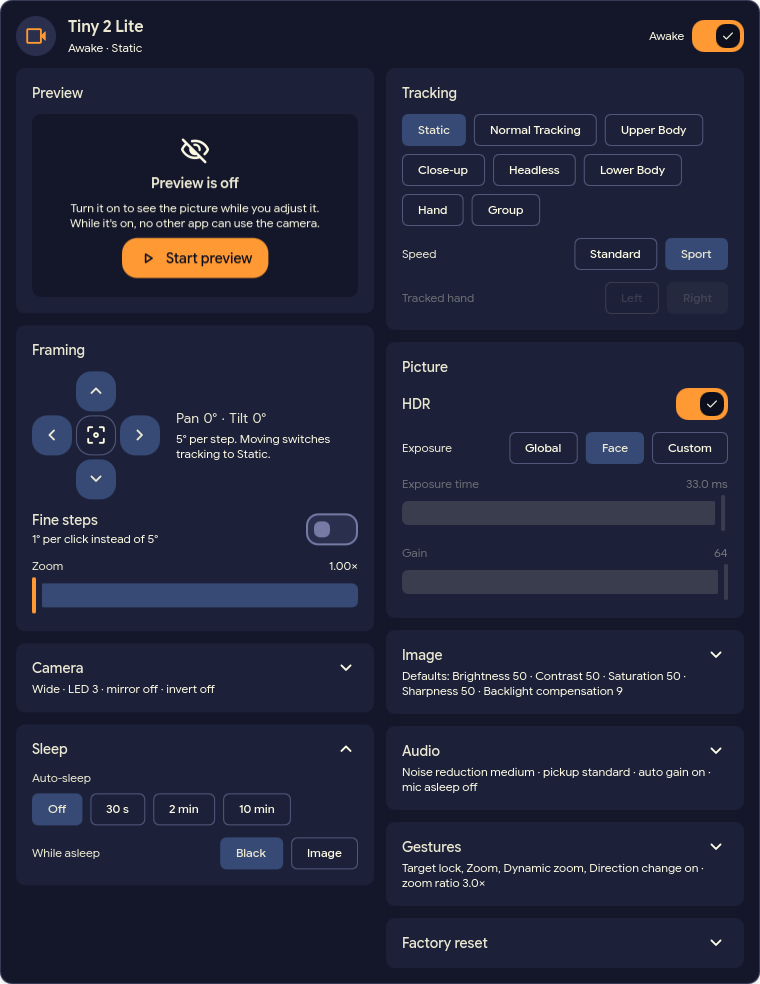
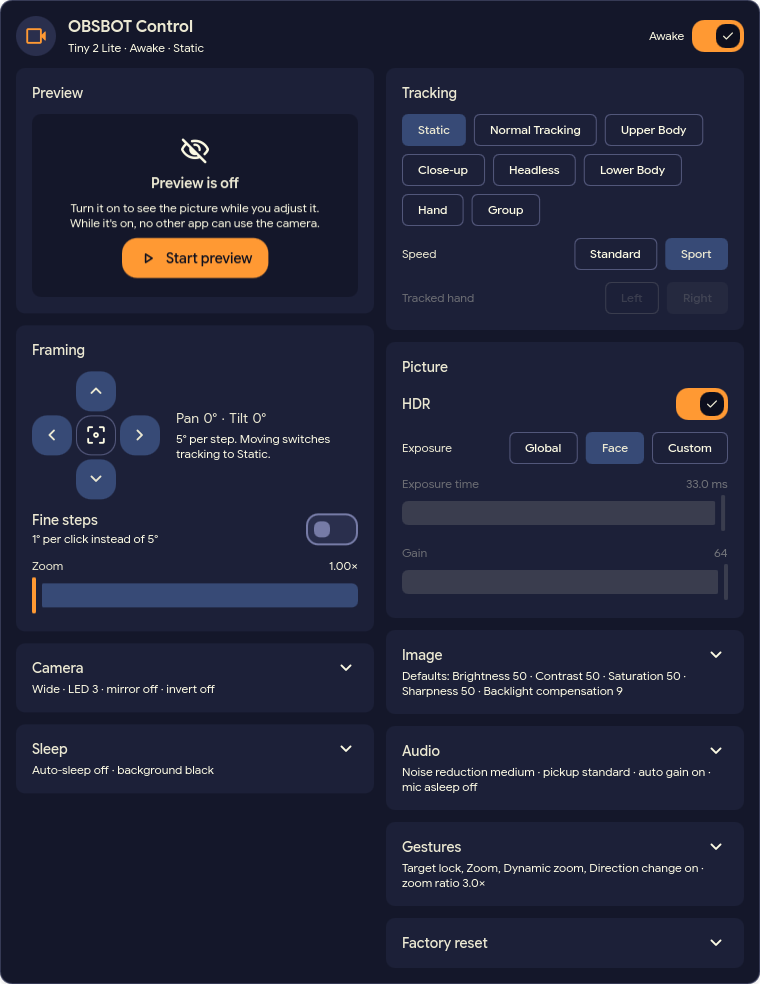
Name the plugin in the popout header (0.7.1)
The title is OBSBOT Control, like the repository, the plugin list and the
registry entry; the camera model moves in front of the state in the line
below ("Tiny 2 Lite · Awake · Static"). New screenshot.

Fixes #7

Changed region(s): [[0.0303, 0.7622, 0.4539, 0.8841], [0.0908, 0.0, 0.2724, 0.061]]

diff --git a/HeaderBar.qml b/HeaderBar.qml
@@ -34,7 +34,7 @@ Item {
         spacing: 2
 
         StyledText {
-            text: "Tiny 2 Lite"
+            text: "OBSBOT Control"
             color: Theme.surfaceText
             font.pixelSize: Theme.fontSizeLarge
             font.weight: Font.DemiBold
@@ -62,7 +62,8 @@ Item {
 
             StyledText {
                 anchors.verticalCenter: parent.verticalCenter
-                text: bar.ctl.statusText
+                // the camera model, then its state: the title is the plugin's name
+                text: "Tiny 2 Lite · " + bar.ctl.statusText
                 color: Theme.surfaceVariantText
                 font.pixelSize: Theme.fontSizeSmall
             }

diff --git a/CHANGELOG.md b/CHANGELOG.md
@@ -3,6 +3,13 @@
 All notable changes to this widget. The format follows
 [Keep a Changelog](https://keepachangelog.com/en/1.1.0/).
 
+## [0.7.1] - 2026-10-25
+
+### Changed
+
+- The popout header shows the plugin's name, OBSBOT Control, and puts the
+  camera model in front of its state: "Tiny 2 Lite · Awake · Static".
+
 ## [0.7.0] - 2026-10-25
 
 ### Changed
